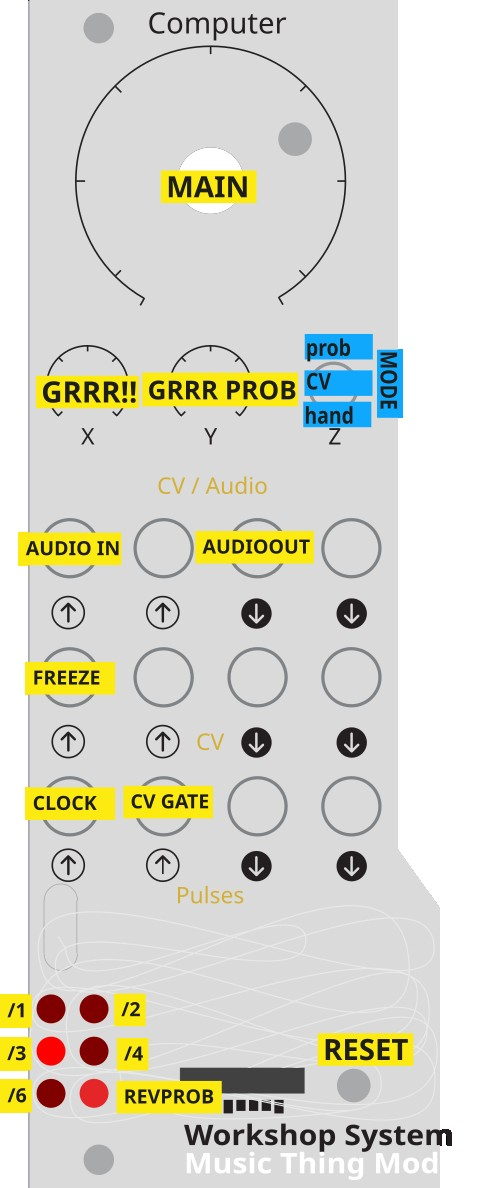
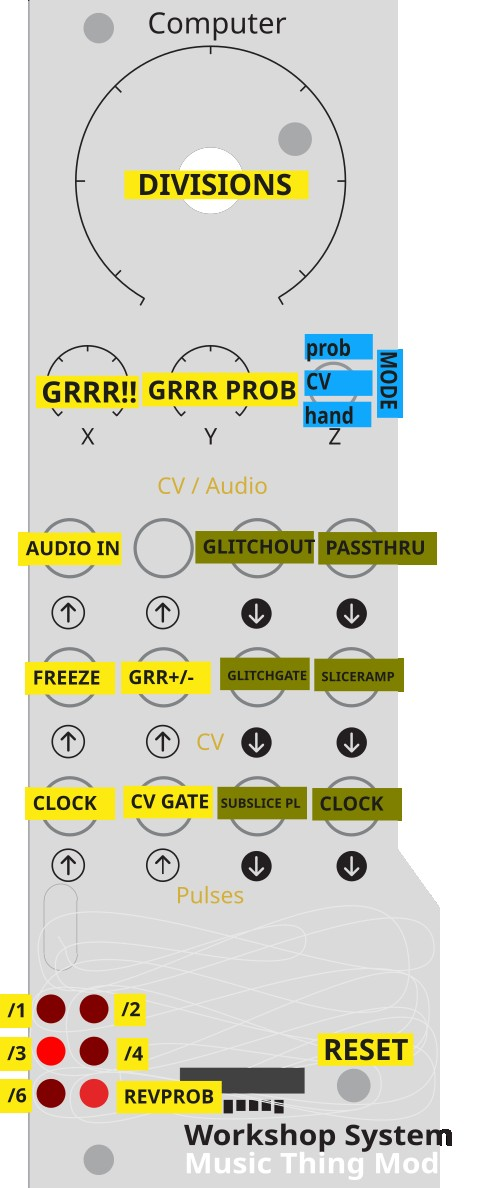
Sync 57_glitch to v1.3 — new image, updated README and source

diff --git a/releases/57_glitch/main.cpp b/releases/57_glitch/main.cpp
@@ -4,16 +4,23 @@
 // Controls:
 //   Pulse In 1          : Clock input (rising edge = new beat)
 //   CV In 1 > ~0V       : Freeze (stops recording, keeps looping)
+//   CV In 2             : Bipolar mod — added to Knob X and Knob Y values
 //   Pulse In 2          : External gate (used in Switch MID mode)
 //   Main Knob           : 5 zones → ratchet division {1,2,3,4,6}
 //                         Remainder within zone → reverse probability threshold
-//   Knob X              : Degradation amount (bitcrush + decimation depth)
+//   Knob X              : Degradation amount — first half: decimation only (1→16x);
+//                         second half: decimation stays max, adds bitcrush (0→7 bits)
 //   Knob Y              : Degradation probability (how often degradation applies)
 //   Switch UP (latch)   : Probabilistic mode — glitch if rng < prob_thresh
 //   Switch MID          : External gate mode — glitch while Pulse In 2 HIGH
 //   Switch DOWN (moment): Force mode — always glitch
 //   Audio In 1          : Input signal
-//   Audio Out 1 + 2     : Output (same signal on both channels)
+//   Audio Out 1         : Glitched (or pass-through) output
+//   Audio Out 2         : Always dry — live pass-through of Audio In 1
+//   Pulse Out 1         : Sub-slice clock — fires at every ratchet slice boundary
+//   CV Out 1            : Glitch gate — high (+5V) while glitching, low (0V) otherwise
+//   CV Out 2            : Descending ramp across each slice (high→low), resets at boundary
+//   Pulse Out 2         : Mirror of Pulse In 1 (clock through)
 //
 // LEDs:
 //   LED 0..4   : One lit to show current ratchet zone (left col + top-right)
@@ -89,6 +96,10 @@ class Glitch : public ComputerCard
     // --- frozen state ---
     bool     frozen           = false;
 
+    // --- output state ---
+    bool     slice_boundary   = false;  // true for one sample at each slice reset
+    int32_t  ramp_scale       = 0;      // 2047*65536 / (slice_len-1), 16.16 fixed-point
+
 public:
     Glitch() {
         memset(g_buf, 0, sizeof(g_buf));
@@ -97,11 +108,16 @@ public:
     void __not_in_flash_func(ProcessSample)() override
     {
         // ----------------------------------------------------------------
-        // 1. Read raw knob values
+        // 1. Read raw knob values; CV In 2 modulates X and Y (bipolar)
         // ----------------------------------------------------------------
         const int32_t knob_main = KnobVal(Knob::Main);  // 0..4095
-        const int32_t knob_x    = KnobVal(Knob::X);     // 0..4095
-        const int32_t knob_y    = KnobVal(Knob::Y);     // 0..4095
+        const int32_t cv2       = CVIn2();               // -2048..2047
+
+        auto clamp = [](int32_t v) -> int32_t {
+            return v < 0 ? 0 : (v > 4095 ? 4095 : v);
+        };
+        const int32_t knob_x = clamp(KnobVal(Knob::X) + cv2);  // 0..4095
+        const int32_t knob_y = clamp(KnobVal(Knob::Y) + cv2);  // 0..4095
 
         // ----------------------------------------------------------------
         // 2. Big Knob zone decode
@@ -119,16 +135,22 @@ public:
 
         // ----------------------------------------------------------------
         // 3. Degradation parameters from Knob X
-        //    crush_bits 0..7  — how many LSBs to mask (0 = bypass)
-        //    dec_factor 1..16 — sample-hold step size  (1 = bypass)
+        //    First half  (0–2047): decimation only, dec_factor 1→16, crush_bits=0
+        //    Second half (2048–4095): dec_factor fixed at 16, crush_bits 0→7
         // ----------------------------------------------------------------
-        const int32_t crush_bits = knob_x >> 9;          // 0..7
-        const int32_t dec_factor = 1 + (knob_x >> 8);   // 1..16
+        int32_t crush_bits, dec_factor;
+        if (knob_x < 2048) {
+            dec_factor  = 1 + ((knob_x * 15) >> 11);  // 1..16
+            crush_bits  = 0;
+        } else {
+            dec_factor  = 16;
+            crush_bits  = (knob_x - 2048) >> 8;       // 0..7
+        }
 
         // ----------------------------------------------------------------
-        // 4. Freeze: CV In 1 as comparator (>2047 ≈ above 0V)
+        // 4. Freeze: CV In 1 as comparator (> 0 ≈ above 0V)
         // ----------------------------------------------------------------
-        frozen = (CVIn1() > 2047);
+        frozen = (CVIn1() > 0);
 
         // ----------------------------------------------------------------
         // 5. Clock edge — measure beat, compute slice geometry
@@ -153,8 +175,10 @@ public:
                           % MAX_BUFFER_SIZE;
 
             // Decide glitch and reverse for the first sub-slice of this beat.
-            slice_pos   = 0;
-            do_glitch   = eval_glitch(prob_thresh, knob_y);
+            slice_pos       = 0;
+            slice_boundary  = true;
+            ramp_scale      = (slice_len > 1) ? (2047 * 65536) / (slice_len - 1) : 0;
+            do_glitch       = eval_glitch(prob_thresh, knob_y);
             reverse_flag = ((rng_next() >> 20) < (uint32_t)prob_thresh);
             degrade_active = eval_degrade(knob_y);
         }
@@ -173,8 +197,10 @@ public:
         if (master_loop_len > 0) {
             slice_pos++;
             if (slice_pos >= slice_len) {
-                slice_pos    = 0;
-                do_glitch    = eval_glitch(prob_thresh, knob_y);
+                slice_pos       = 0;
+                slice_boundary  = true;
+                ramp_scale      = (slice_len > 1) ? (2047 * 65536) / (slice_len - 1) : 0;
+                do_glitch       = eval_glitch(prob_thresh, knob_y);
                 reverse_flag = ((rng_next() >> 20) < (uint32_t)prob_thresh);
                 degrade_active = eval_degrade(knob_y);
             }
@@ -216,10 +242,18 @@ public:
         }
 
         // ----------------------------------------------------------------
-        // 9. Audio output — same signal on both channels
+        // 9. Outputs
         // ----------------------------------------------------------------
         AudioOut1(out);
-        AudioOut2(out);
+        AudioOut2(AudioIn1());                        // always dry
+        PulseOut1(slice_boundary);                    // sub-slice clock, one sample wide
+        PulseOut2(PulseIn1());                        // clock mirror
+        slice_boundary = false;
+        CVOut1(do_glitch ? 2047 : -2048);             // glitch gate
+        const int32_t ramp = (slice_len > 1)
+            ? 2047 - ((slice_pos * ramp_scale) >> 16)
+            : 2047;
+        CVOut2((int16_t)ramp);                        // descending slice ramp
 
         // ----------------------------------------------------------------
         // 10. LEDs

diff --git a/releases/57_glitch/README.md b/releases/57_glitch/README.md
@@ -20,13 +20,18 @@ A beat-repeater and audio degradation effect. Glitch records incoming audio into
 | Pulse In 1  (bottom input) | Clock input — rising edge sets beat length (max 0.5s) |
 | Pulse In 2 | External gate (Switch MID mode only) |
 | CV In 1 (middle input) | Freeze — above ~0V stops recording, loops frozen content |
+| CV In 2 (middle input) | Bipolar mod — added to both Knob X and Knob Y values |
 
 ## Outputs
 
 | Jack | Function |
 |------|----------|
-| Audio Out 1 | Main output |
-| Audio Out 2 | Identical to Out 1 |
+| Audio Out 1 | Glitched output — or live pass-through when not glitching |
+| Audio Out 2 | Always dry — live pass-through of Audio In 1 regardless of glitch state |
+| Pulse Out 1 | Sub-slice clock — fires a pulse at every ratchet slice boundary |
+| CV Out 1 | Glitch gate — high (~+5V) while glitching, low (0V) while passing through |
+| CV Out 2 | Descending ramp — falls from ~+5V to 0V across each slice, resets at boundary. Patch to a VCA to fade out each repeated slice. |
+| Pulse Out 2 | Clock mirror — passes Pulse In 1 straight through |
 
 ## Controls
 
@@ -35,7 +40,7 @@ Divided into 5 zones selecting ratchet division ÷1 / ÷2 / ÷3 / ÷4 / ÷6.
 Position within each zone sets reverse probability threshold. Final LED brightness shows current probability for reverse/glitch.
 
 **Knob X — Degradation Amount**
-Bitcrushing (reduces bit depth) and decimation (reduces sample rate) applied together. At zero, bypassed completely.
+First half (CCW to centre): decimation only, introducing sample-rate reduction up to 16×. Second half (centre to CW): decimation stays at maximum, bitcrushing added progressively. Fully CCW is completely clean.
 
 **Knob Y — Degradation Probability**
 How often degradation fires per slice. CCW = never, CW = always.
@@ -62,8 +67,8 @@ When not glitching, live audio passes through unaffected.
 1. Patch a clock into Pulse In 1 and audio into Audio In 1
 2. Set Switch DOWN — you should hear the beat repeating immediately
 3. Turn Main Knob clockwise through the zones to hear higher subdivisions
-6. Move Switch UP and use the probability threshold within each zone
-7. Bring up Knob X for degradation, Knob Y to control how often it applies
-8. Patch a gate into CV In 1 to freeze the buffer
+4. Move Switch UP and use the probability threshold within each zone
+5. Bring up Knob X for degradation, Knob Y to control how often it applies
+6. Patch a gate into CV In 1 to freeze the buffer
 
 Full source and documentation: https://github.com/uglifruit/Workshop_Computer/tree/main/Demonstrations%2BHelloWorlds/PicoSDK/ComputerCard/examples/glitch